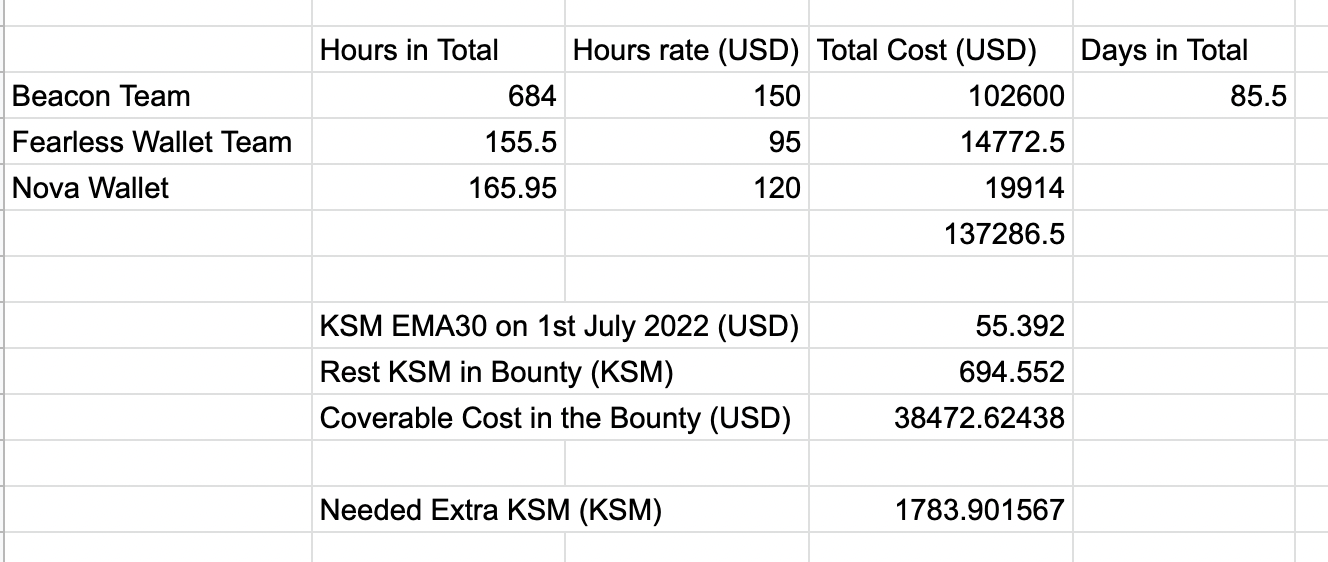
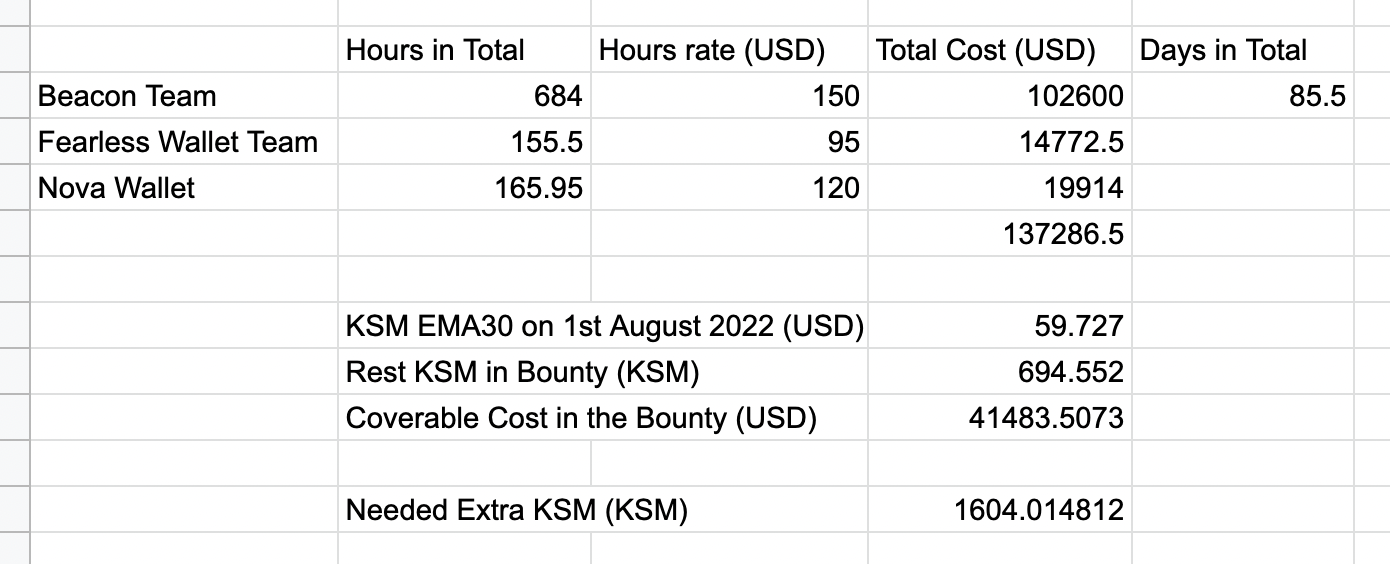
add new request

diff --git a/Submission/202208TopUpRequest.md b/Submission/202208TopUpRequest.md
@@ -1,0 +1,11 @@
+#Bounty 3 Top-up Request
+
+[Bounty #3](https://kusama.polkassembly.io/bounty/3) aims to provide a signing solution to bridge the dApps and mobile wallets, which using Beacon Network as a decentralized peer to peer network of nodes based on the matrix protocol, with trustless and encrypted message relaying.
+
+The bounty includes the integration with Beacon SDK with Substrate-based Network, and the integration with Wallet in both iOS and Android. Overall the bounty is completed by Beacon team, Fearless Wallet team and Nova Wallet by June 2022.
+
+The bounty include relatively more work which could be split into different stages. In order to cover the financial risk for development team, we decide to split the distribution of the bounty into 2 parts. The first part is distributed in November 2021 and rest of KSM is hold in a multi-sig wallet on KSM: FC4tZgWUDpg1AK5uoY7Z9bTaUanemyipoG7Tk8W9YXpxvZ6. In June 2022, the rest part of the bounty is completed, but the remaining KSM in the bounty can't cover the cost because KSM price drops in 2022.
+
+Hereby I kindly ask the council to approve the request to top up 1604 KSM into the bounty according to the calculation made below:  
+
+![Time Spent Table](../res/TimeSpent.png)

diff --git a/Submission/202206Review.md b/Submission/202206Review.md
@@ -67,15 +67,15 @@ To be noticed here. Anton was a team member of Fearless Wallet team and during t
 
 ## Cost Calculation
 
-KSM price based on [last 30 days average](https://docs.google.com/spreadsheets/d/15-nY95I_AeoIWr-BMk2j3CqM9ELkg3YU5EKjMz87bZ4/edit#gid=0).
+KSM price based on [last 30 days average](https://kusama.subscan.io/tools/charts?type=price).
 
 ![Time Spent Table](../res/TimeSpent.png)
 
 ## Refill KSM 
 
-Due to the volatility of KSM(The KSM price is 368 USD when we distribute the first part of the bounty, now is 55.392 USD), we need to add more KSM into the bounty in order to cover the cost of the second part of the bounty.
+Due to the volatility of KSM(The KSM price is 368 USD when we distribute the first part of the bounty, now is 59.727 USD), we need to add more KSM into the bounty in order to cover the cost of the second part of the bounty.
 
-According to the calculation, we still need 1783.9 KSM.
+According to the calculation, we still need 1604.9 KSM.
 
 ## Future Plan
 

diff --git a/README.md b/README.md
@@ -1,7 +1,6 @@
 # Substrate-Mobile-Injector
 This repo is used to provide the basic info and share documents for Substrate mobile injector bounty.
 
-
 * [Bounty proposal discussion (Polkassembly)](https://kusama.polkassembly.io/bounty/3)
 * [Bounty motion discussion (Polkassembly)](https://kusama.polkassembly.io/motion/272)
 * [Bounty Discussion Channel](https://app.element.io/#/room/#mobile-injector:matrix.org)
